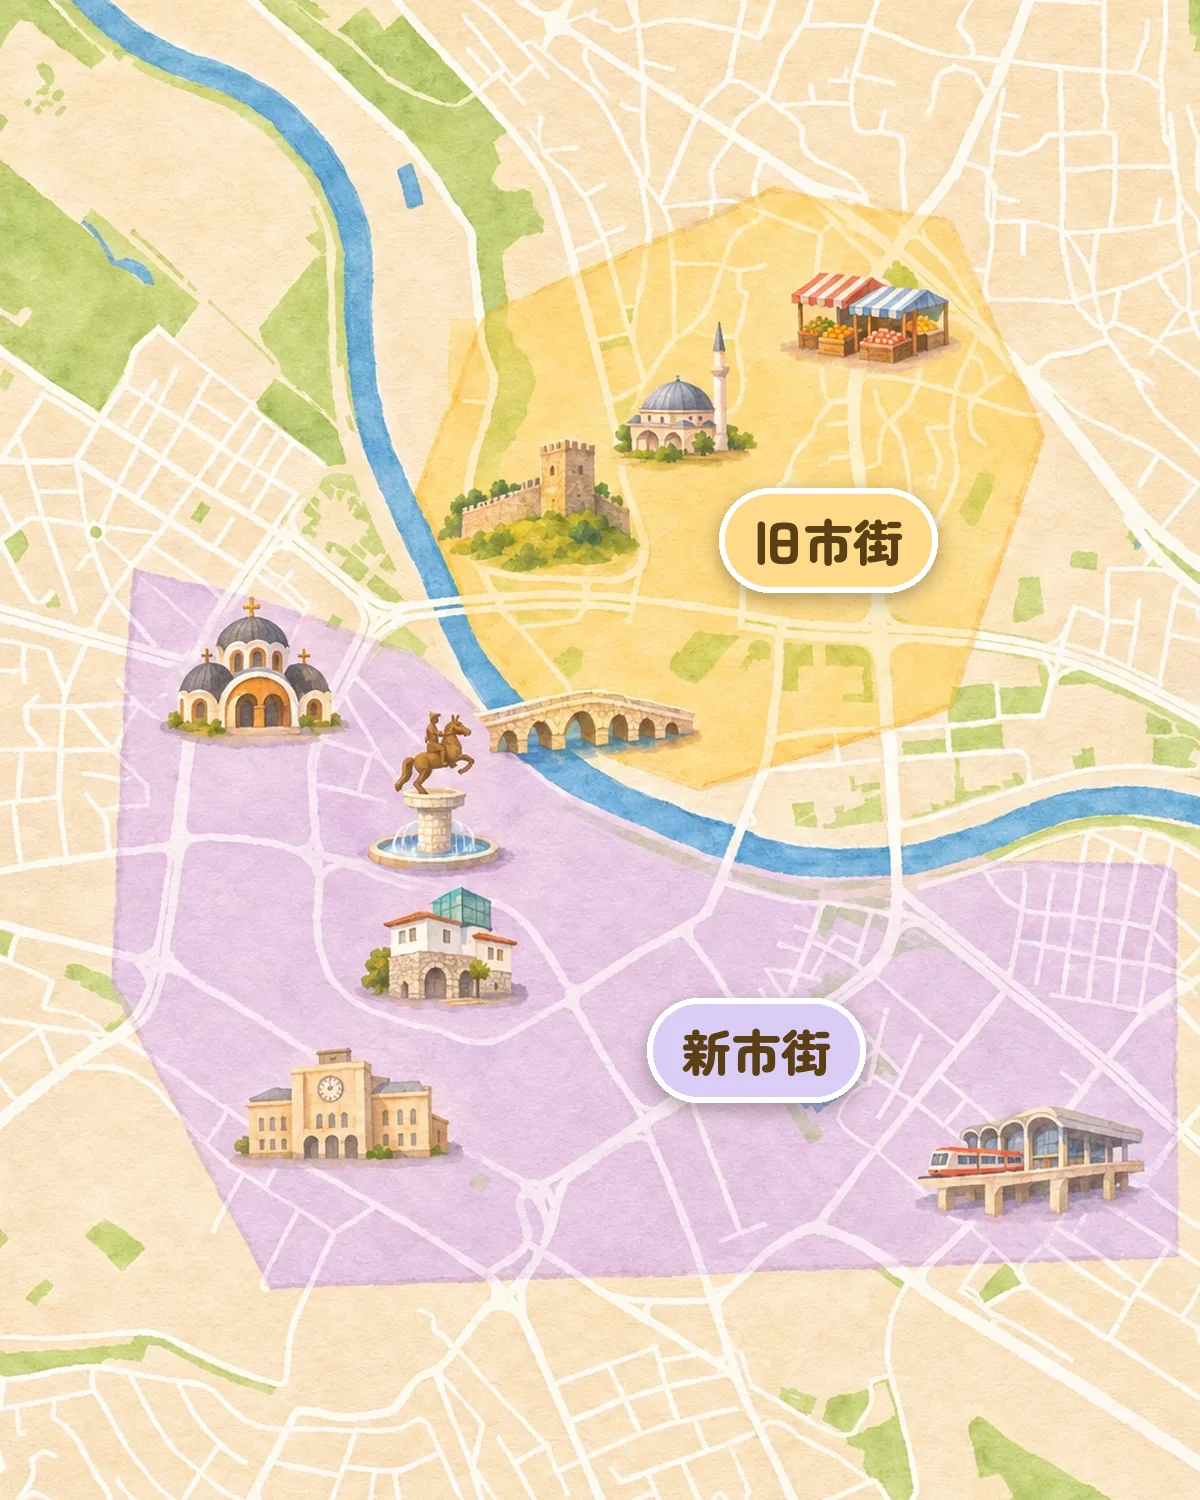
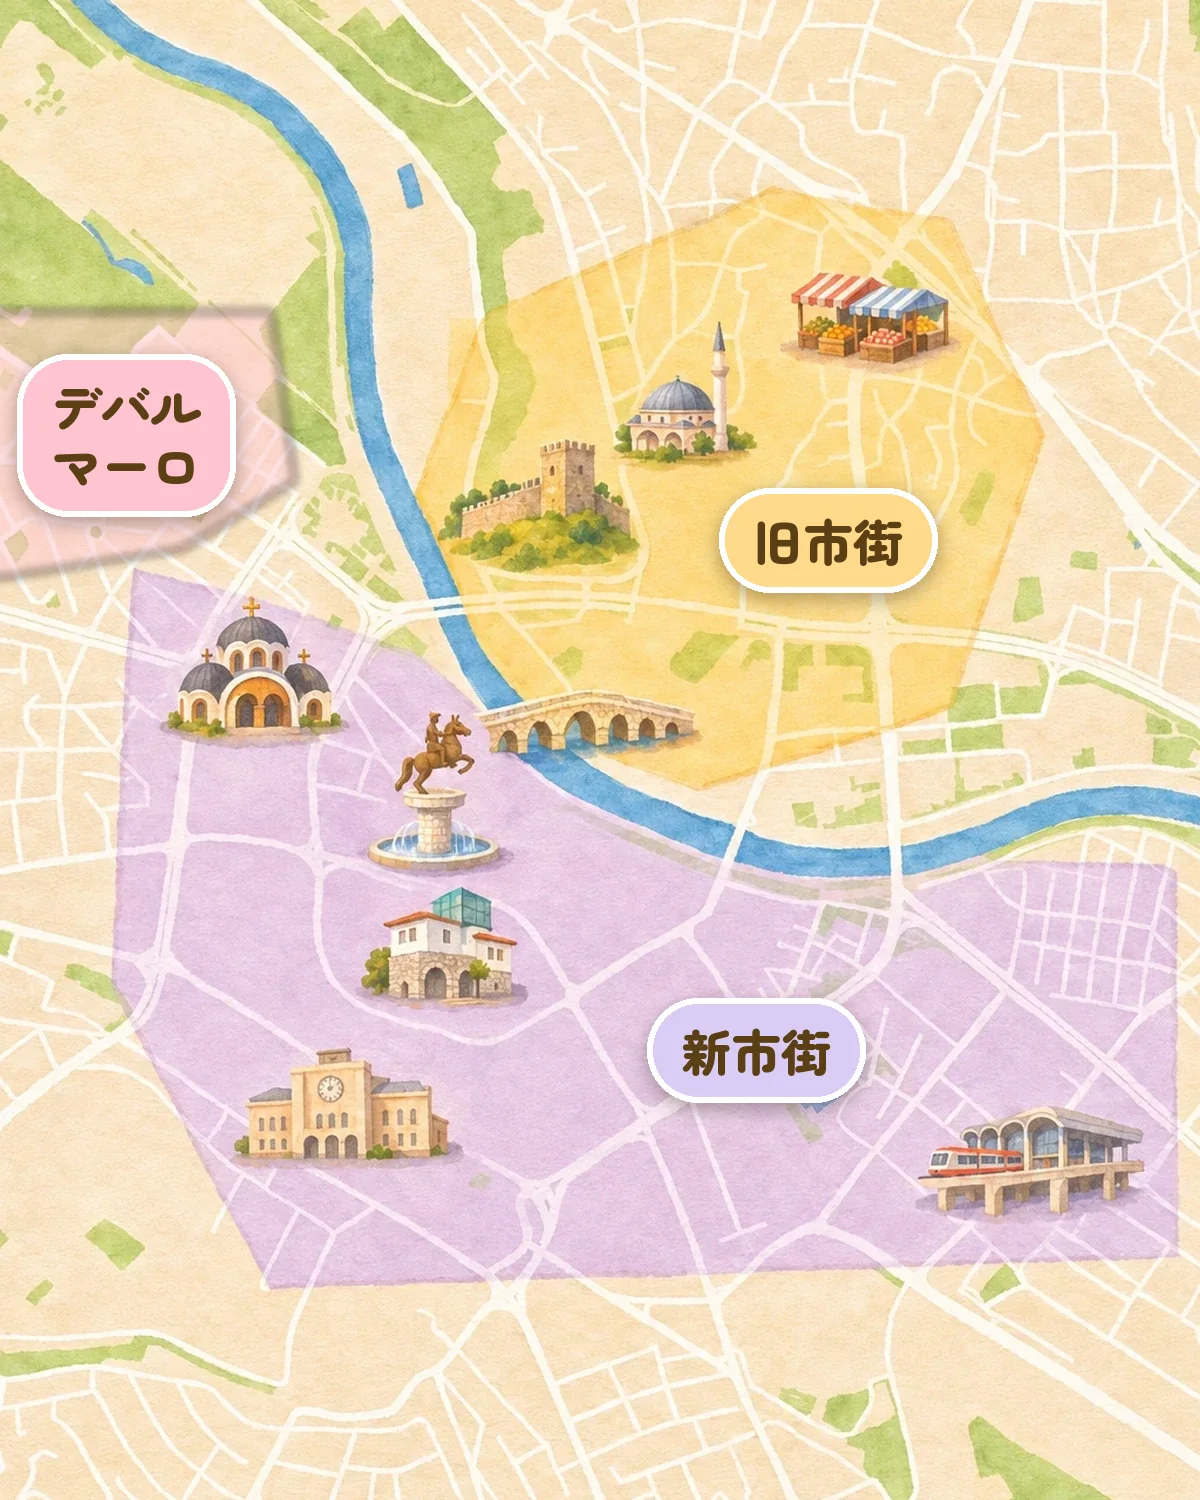
スコピエの見どころマップに、3つ目の地区デバル・マーロを足す（#1228）
あやとが 11-15 に自分で丸を付けた所。前は「おしゃれ地区」という性格の呼び名が日本語の頁に無いので
新市街に含めたが、デバル・マーロは作った呼び名ではなく実在の地名（Дебар Маало）で、手引きの
「地名で呼ぶ」にかなう。札は「デバル・マーロ」、一覧の説明は Wikivoyage の字から
「並木道にカフェとレストランが並ぶ住宅街」。新市街の説明からはその分を抜いた。

地図は ChatGPT に旧市街・新市街だけを描かせたあとなので、描き直さずに、残した焼く前の1枚へ
下敷きと同じ緯度経度の写しで色を重ねる（guide_layout.py の wash。頼み書きの districts の paint）。
描き直すと絵が変わり、ほかの札の置き場も決め直しになるため。OSM には地区の境の線が無い（点だけ）ので、
範囲は店と点を囲んだおおよそ。

Claude-Session: https://claude.ai/code/session_011cNvkUTUZy1hHh44ERGarD

Changed region(s): [[0.0, 0.184, 0.2467, 0.3987]]

diff --git a/site/content/guidebook/north-macedonia-skopje.ts b/site/content/guidebook/north-macedonia-skopje.ts
@@ -126,9 +126,9 @@ export const SKOPJE: Guidebook = /* BEGIN GUIDE */
      "struggle"
     ],
     "plan": [
+     2,
      1,
-     1,
-     3
+     2
     ],
     "src": [
      {
@@ -165,6 +165,36 @@ export const SKOPJE: Guidebook = /* BEGIN GUIDE */
       "t": 1200,
       "date": "2026-10-14"
      }
+    }
+   },
+   {
+    "id": "debar-maalo",
+    "name": "デバル・マーロ",
+    "color": "#ffc4d2",
+    "lead": "並木道にカフェとレストランが並ぶ住宅街",
+    "see": [],
+    "plan": [
+     1,
+     1,
+     1
+    ],
+    "src": [
+     {
+      "name": "Wikivoyage「Skopje/Centar」",
+      "url": "https://en.wikivoyage.org/wiki/Skopje/Centar",
+      "seen": "2026-11-15"
+     },
+     {
+      "name": "OpenStreetMap（Debar Maalo（place=suburb））",
+      "url": "https://www.openstreetmap.org/node/6239561763",
+      "seen": "2026-11-18"
+     }
+    ],
+    "body": "1920年代にデバル地方から移った人たちが住みついた",
+    "local": {
+     "text": "Дебар Маало",
+     "lang": "mk",
+     "roman": "Debar Maalo"
     }
    },
    {
@@ -217,7 +247,7 @@ export const SKOPJE: Guidebook = /* BEGIN GUIDE */
       "seen": "2026-11-15"
      }
     ],
-    "body": "広場の噴水の上に、高さ14.5mの騎馬像が立つ。1963年の地震のあとに建て直された中心部で、半分壊れた旧駅舎は、地震を伝える市の博物館になっている。西のデバル・マーロは並木道にレストランとカフェが並ぶ一角で、東には鉄道駅と長距離バスの交通センターがある",
+    "body": "広場の噴水の上に、高さ14.5mの騎馬像が立つ。1963年の地震のあとに建て直された中心部で、半分壊れた旧駅舎は、地震を伝える市の博物館になっている。東には鉄道駅と長距離バスの交通センターがある",
     "local": {
      "text": "Центар",
      "lang": "mk",
@@ -4316,6 +4346,6 @@ export const SKOPJE: Guidebook = /* BEGIN GUIDE */
  },
  "published": "2026-11-14",
  "updated": "2026-11-18",
- "hash": "c0b01fa935542aba"
+ "hash": "301d5ee31a8d81b7"
 }
 /* END GUIDE */;

diff --git a/.claude/skills/chatgpt-image/guide_layout.py b/.claude/skills/chatgpt-image/guide_layout.py
@@ -250,6 +250,41 @@ def layout(am: dict, out: Path, width: int = 1024) -> tuple[int, int]:
     return im.size
 
 
+# ---------------------------------------------------------------- あとから足す地区の色
+
+def wash(im, am: dict, bias: float = 0.5):
+    """頼み書きの `districts` のうち `paint: true` のもの（ChatGPT が描いた後で足した地区）の色を、描けた絵に重ねて返す。
+
+    2026-11-18、スコピエの地図に3つ目の地区（デバル・マーロ）を足した。描き直すと ChatGPT の絵が変わるので、
+    残した焼く前の1枚（`<街>-areamap-base.webp`）に、下敷きと同じ緯度経度→画素の写しで薄い色を重ねる。
+    描けた絵は下敷きの配置どおりなので（`fix` で守らせている）、同じ写しで重なる。絵の外へ出るぶんは切れる
+    """
+    from PIL import Image, ImageDraw, ImageFilter
+    ds = [d for d in am.get("districts", []) if d.get("paint")]
+    if not ds:
+        return im
+    bb = am["bbox"]
+    W, H = im.size
+    y0, y1 = _wy(bb["north"]), _wy(bb["south"])
+    # 下敷きの縦の長さ（幅に対して）。描けた絵はこれを ratio に切ったもの
+    full = W * (y1 - y0) / (_wx(bb["east"]) - _wx(bb["west"]))
+    off = (full - H) * bias
+
+    def px(lat, lon):
+        return ((lon - bb["west"]) / (bb["east"] - bb["west"]) * W, (_wy(lat) - y0) / (y1 - y0) * full - off)
+    fill = Image.new("RGBA", im.size, (0, 0, 0, 0))
+    edge = Image.new("RGBA", im.size, (0, 0, 0, 0))
+    fd, ed = ImageDraw.Draw(fill), ImageDraw.Draw(edge)
+    for d in ds:
+        pts = [px(la, lo) for la, lo in d["poly"]]
+        c = _hex(d["color"])
+        fd.polygon(pts, fill=c + (120,))
+        ed.line(pts + pts[:1], fill=tuple(round(v * 0.88) for v in c) + (110,), width=max(2, round(W * 0.005)), joint="curve")
+    fill = fill.filter(ImageFilter.GaussianBlur(W * 0.004))
+    edge = edge.filter(ImageFilter.GaussianBlur(W * 0.003))
+    return Image.alpha_composite(Image.alpha_composite(im.convert("RGBA"), fill), edge).convert("RGB")
+
+
 # ---------------------------------------------------------------- 札を焼く
 
 def font(style: str = "Black") -> Path:

diff --git a/.claude/skills/chatgpt-image/guide_art_selftest.py b/.claude/skills/chatgpt-image/guide_art_selftest.py
@@ -483,6 +483,18 @@ def main() -> int:
         bsp["areamap"]["areas"][0]["label"] = ["Aの駅周辺"]
         bman2, _ = ga.finalize(bsp, root, tmp / "nowork", base=base)
         ok(bman2["areamap"]["areas"][0]["h"] < am["areas"][0]["h"], "持ち帰った絵が無い日に、焼く前の1枚から焼き直さない")
+        # 描いたあとで足した地区の色（`paint`）は、その範囲にだけ重なる。範囲の外の画素は変えない
+        bsp["areamap"]["bbox"] = {"west": 21.42, "east": 21.45, "south": 41.98, "north": 42.01}
+        bsp["areamap"]["districts"] = [{"id": "c", "color": "#ff3080", "paint": True,
+                                        "poly": [[42.004, 21.421], [42.004, 21.427], [42.000, 21.427], [42.000, 21.421]]}]
+        before = Image.open(bout / "町-見どころマップ-1200.webp").convert("RGB")
+        ga.finalize(bsp, root, tmp / "nowork", base=base)
+        after = Image.open(bout / "町-見どころマップ-1200.webp").convert("RGB")
+        inside, far = (round(1200 * 0.13), round(1500 * 0.30)), (1100, 1400)
+        ok(after.getpixel(inside)[1] < before.getpixel(inside)[1] - 20 and
+           sum(abs(x - y) for x, y in zip(after.getpixel(far), before.getpixel(far))) < 12,
+           f"足した地区の色が、範囲の中に重ならない・外まで変えた: {before.getpixel(inside)}→{after.getpixel(inside)} / {before.getpixel(far)}→{after.getpixel(far)}")
+        bsp["areamap"]["districts"] = []
         bsp["areamap"]["areas"][1].update({"x": 0.32, "y": 0.32})
         try:
             ga.finalize(bsp, root, tmp / "nowork", base=base)

diff --git a/.claude/skills/chatgpt-image/guide_art.py b/.claude/skills/chatgpt-image/guide_art.py
@@ -668,7 +668,8 @@ def finalize(spec: dict, root: Path, work: Path | None, out: Path | None = None,
             elif base.is_file():
                 im = Image.open(base).convert("RGB")
             if im is not None:
-                im = gl().bake(im, spec["areamap"]["areas"])
+                # 描いたあとで足した地区（`districts[].paint`）の色を重ねてから、名前を焼く
+                im = gl().bake(gl().wash(im, spec["areamap"], s["bias"]), spec["areamap"]["areas"])
         if im is not None:
             pics = []
             for w in sizes:

diff --git a/docs/guide-copy.md b/docs/guide-copy.md
@@ -104,15 +104,15 @@
 | ネフスキー大聖堂・ロシア教会・国立劇場 | ネフスキー大聖堂周辺 | アレクサンドル・ネフスキー大聖堂周辺 | 地球の歩き方「アレクサンドル・ネフスキー大聖堂」／[VELTRA](https://www.veltra.com/jp/guide/international/spot-international/81165/)「大聖堂の周辺には、カフェやレストランも多く」 |
 | ヴィトシャ通り・NDK・ポパ | ヴィトシャ通り周辺 | ヴィトシャ通り周辺 | [フォートラベル](https://4travel.jp/os_shisetsu_tips/13978512)の施設名「ヴィトシャ通り」 |
 
-スコピエに当てると（2026-11-18。日本語の頁は、街を**ヴァルダル川で2つに分けて**呼んでいる。なので 1 の地名で2つ）:
+スコピエに当てると（2026-11-18。日本語の頁は、街を**ヴァルダル川で2つに分けて**呼んでいる。そこに地名のデバル・マーロを足して3つ）:
 
 | 地区（目印） | 地図の札 | 正式名（一覧・窓） | 出どころ |
 | --- | --- | --- | --- |
 | 石橋の北: バザール・城塞・モスク・ビト・パザル | 旧市街 | 旧市街 | [skyticket](https://skyticket.jp/guide/71254/)（2024年9月更新）「スコピエはヴァルダル川を境に旧市街と新市街に分かれている」・[フォートラベル](https://4travel.jp/os_shisetsu/10503451)の施設名「スコピエ旧市街」 |
-| 石橋の南: マケドニア広場・マザー・テレサ記念館・旧駅舎・交通センター・デバル・マーロ | 新市街 | 新市街 | skyticket「その新市街の中心にあるのがこの『マケドニア広場』」 |
+| 石橋の南: マケドニア広場・マザー・テレサ記念館・旧駅舎・交通センター | 新市街 | 新市街 | skyticket「その新市街の中心にあるのがこの『マケドニア広場』」 |
+| シティパークの南・新市街の北西: 並木道のカフェとレストラン | デバル・マーロ（2行） | デバル・マーロ | 地名そのもの（Дебар Маало。[OpenStreetMap](https://www.openstreetmap.org/node/6239561763)・[Wikivoyage](https://en.wikivoyage.org/wiki/Skopje/Centar)）。あやとが 2026-11-15 に自分で丸を付けた所 |
 
-- あやとの例の「おしゃれ地区」（デバル・マーロ。並木道に食堂とカフェが並ぶ一角）は、日本語の頁に呼び名が見つからなかった
-  （「デバル・マーロ」の字も無い）。4 の決まりで札を立てず、新市街に含めて、新市街の窓とタヴチェ・グラフチェの「どこで」に書いた
+- あやとの例の「おしゃれ地区」は、性格の呼び名としては日本語の頁に見つからなかった。**地名のデバル・マーロで立てれば 1（地名で呼ぶ）にかなう**（作った呼び名ではない）。OSM には境の線が無い（点だけ）ので、範囲は店と点を囲んだおおよそ。地図の絵は旧市街・新市街だけを描かせたあとで足したので、色はこちらの道具が重ねた（`guide_layout.py` の `wash`）
 - 前の4地区（旧市街・新市街・おしゃれエリア・バスターミナル・鉄道駅）のうち、あとの2つは見どころが1つも入っていなかった
   （3 の「分けすぎて見どころの無いエリア」）。交通センターは新市街の目印の絵に残した
 
